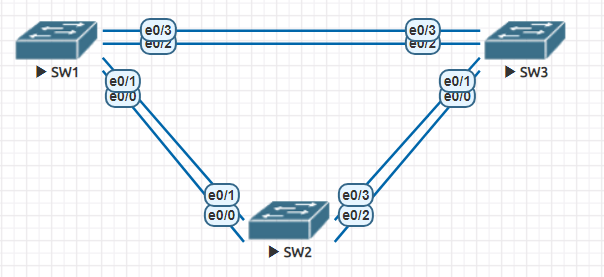
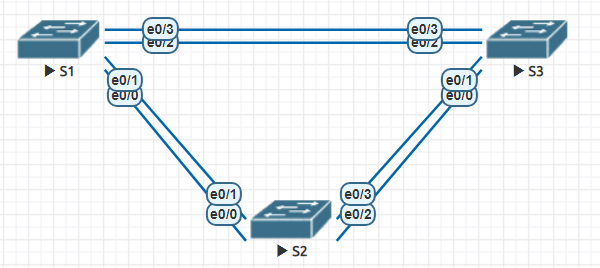
+

Changed region(s): [[0.03, 0.0597, 0.96, 0.9552], [0.0, 0.1493, 0.03, 0.209]]

diff --git a/labs/labs2/README.md b/labs/labs2/README.md
@@ -12,7 +12,110 @@
 
 ## Цели
 
-Создание сети и настройка основных параметров устройства
-Выбор корневого моста
-Наблюдение за процессом выбора протоколом STP порта, исходя из стоимости портов
-Наблюдение за процессом выбора протоколом STP порта, исходя из приоритета портов
+- Создание сети и настройка основных параметров устройства
+- Выбор корневого моста
+- Наблюдение за процессом выбора протоколом STP порта, исходя из стоимости портов
+- Наблюдение за процессом выбора протоколом STP порта, исходя из приоритета портов
+
+## Необходимые ресурсы
+- 3 коммутатора
+- Консольные кабели для настройки устройств Cisco IOS через консольные порты
+- Кабели Ethernet, расположенные в соответствии с топологией
+
+
+### Базовая настройка устройств
+
+#### S1 Базовая настройка:
+
+```
+Switch#enable
+Switch#configure terminal
+Switch(config)#hostname S1
+S1(config)#no ip domain-lookup
+S1(config)#enable secret class
+S1(config)#line console 0
+S1(config-line)#password cisco
+S1(config-line)#login
+S1(config-line)#logging synchronous
+S1(config-line)#line vty 0 4
+S1(config-line)#password cisco
+S1(config-line)#login
+S1(config-line)#logging synchronous
+S1(config-line)#service password-encryption
+S1(config)#banner motd "Unauthorized access is prohibited"
+S1(config)#interface vlan 1
+S1(config-if)#ip address 192.168.1.1 255.255.255.0
+S1(config-if)#no shutdown
+S1(config-if)#end
+S1#write
+```
+
+#### S2 Базовая настройка:
+```
+Switch#enable
+Switch#configure terminal
+Switch(config)#hostname S2
+S2(config)#no ip domain-lookup
+S2(config)#enable secret class
+S2(config)#line console 0
+S2(config-line)#password cisco
+S2(config-line)#login
+S2(config-line)#logging synchronous
+S2(config-line)#line vty 0 4
+S2(config-line)#password cisco
+S2(config-line)#login
+S2(config-line)#logging synchronous
+S2(config-line)#service password-encryption
+S2(config)#banner motd "Unauthorized access is prohibited"
+S2(config)#interface vlan 1
+S2(config-if)#ip address 192.168.1.2 255.255.255.0
+S2(config-if)#no shutdown
+S2(config-if)#end
+S2#write
+```
+
+#### S3 Базовая настройка:
+```
+Switch#enable
+Switch#configure terminal
+Switch(config)#hostname S3
+S3(config)#no ip domain-lookup
+S3(config)#enable secret class
+S3(config)#line console 0
+S3(config-line)#password cisco
+S3(config-line)#login
+S3(config-line)#logging synchronous
+S3(config-line)#line vty 0 4
+S3(config-line)#password cisco
+S3(config-line)#login
+S3(config-line)#logging synchronous
+S3(config-line)#service password-encryption
+S3(config)#banner motd "Unauthorized access is prohibited"
+S3(config)#interface vlan 1
+S3(config-if)#ip address 192.168.1.3 255.255.255.0
+S3(config-if)#no shutdown
+S3(config-if)#end
+S3#write
+```
+
+### Проверка связи между коммутаторами
+```
+S1#ping 192.168.1.2
+Type escape sequence to abort.
+Sending 5, 100-byte ICMP Echos to 192.168.1.2, timeout is 2 seconds:
+.!!!!
+Success rate is 80 percent (4/5), round-trip min/avg/max = 1/1/1 ms
+
+S1#ping 192.168.1.3
+Type escape sequence to abort.
+Sending 5, 100-byte ICMP Echos to 192.168.1.3, timeout is 2 seconds:
+.!!!!
+Success rate is 80 percent (4/5), round-trip min/avg/max = 1/1/1 ms
+SW1#
+
+S2#ping 192.168.1.3
+Type escape sequence to abort.
+Sending 5, 100-byte ICMP Echos to 192.168.1.3, timeout is 2 seconds:
+!!!!!
+Success rate is 100 percent (5/5), round-trip min/avg/max = 1/1/1 ms
+```
